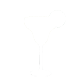
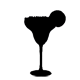
images made black, background lighter

Changed region(s): [[0.3, 0.125, 0.825, 0.975]]

diff --git a/public/stylesheets/style.css b/public/stylesheets/style.css
@@ -1,5 +1,5 @@
 body {
-	background: #000066;
+	background: #ccc;
 	background-repeat: repeat;
   background-position: center center;
   font-family: 'PT Sans', sans-serif;
@@ -15,11 +15,11 @@ label.btn.btn-default {
 	padding-right: 10%;
 	height: 45px;
 	font-size: 22px;
-	color: #000066;
+	color: #000;
 }
 
 label.btn.btn-default.active {
-	background-color: #000066;
+	background-color: #000;
 	font-size: 22px;
 	color: #fff;
 }
@@ -161,7 +161,7 @@ img.beverage-image {
 }
 
 img.beverage-image:hover {
-	background-color: #000000;
+	background-color: #fff;
 	border-radius: 6px;
 	
 }
